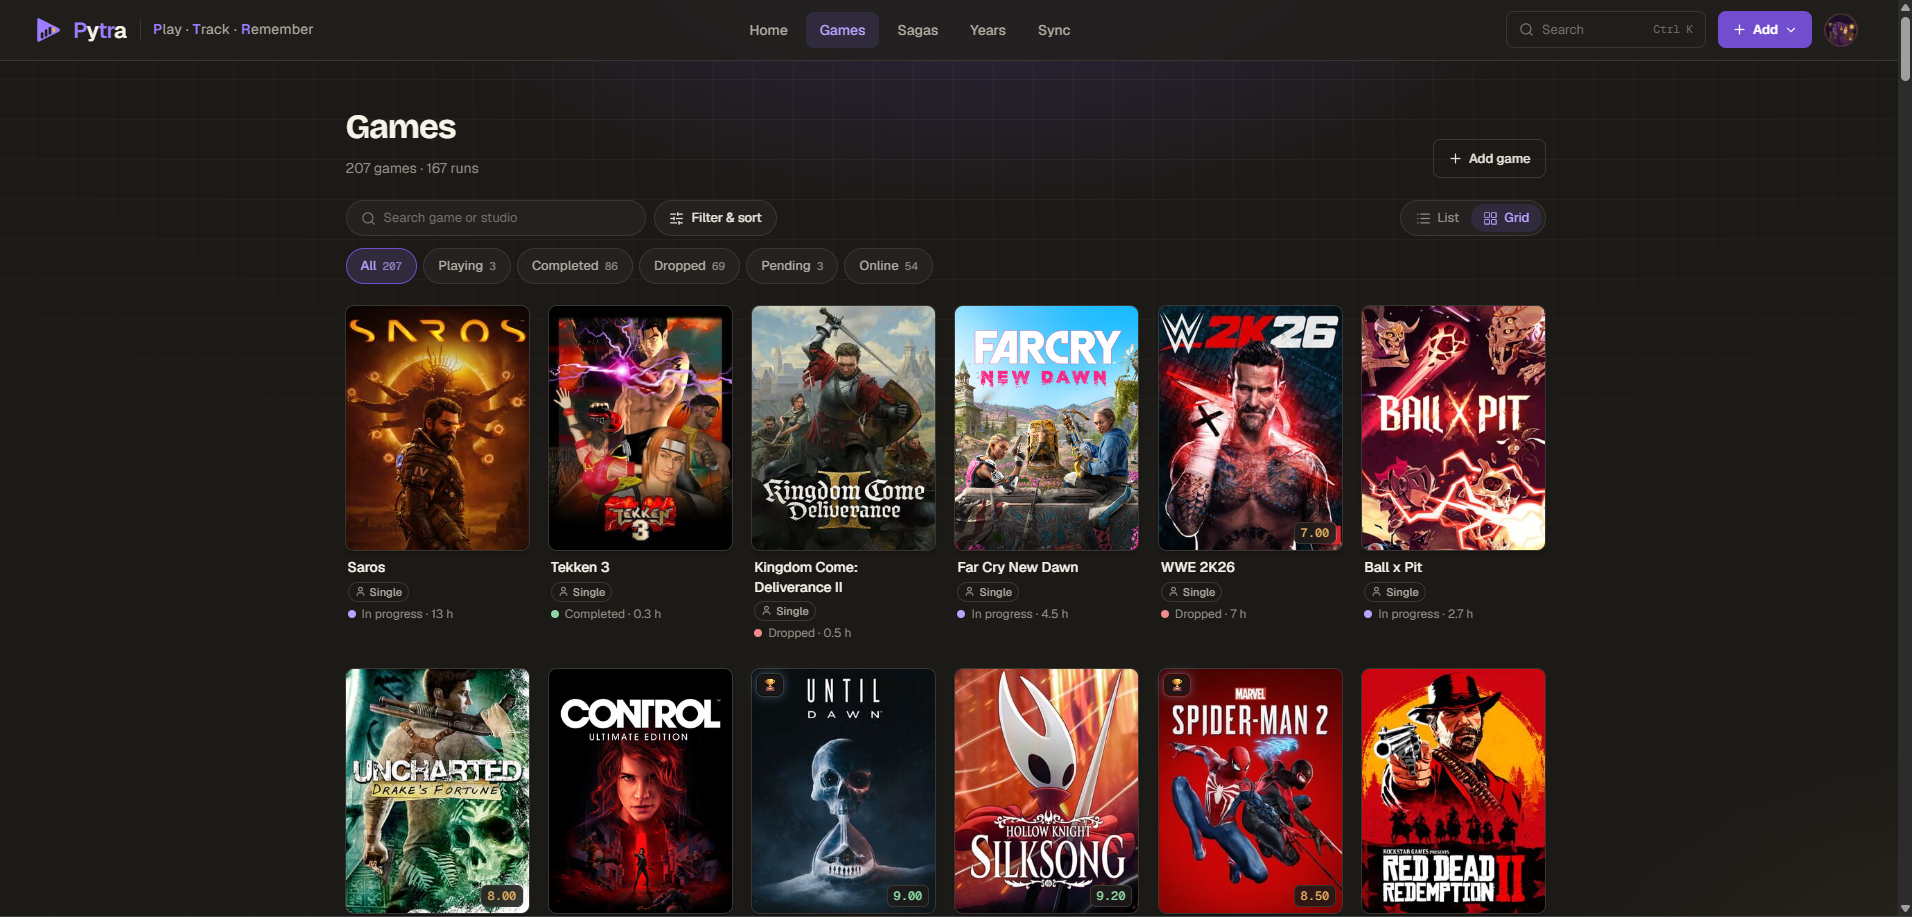
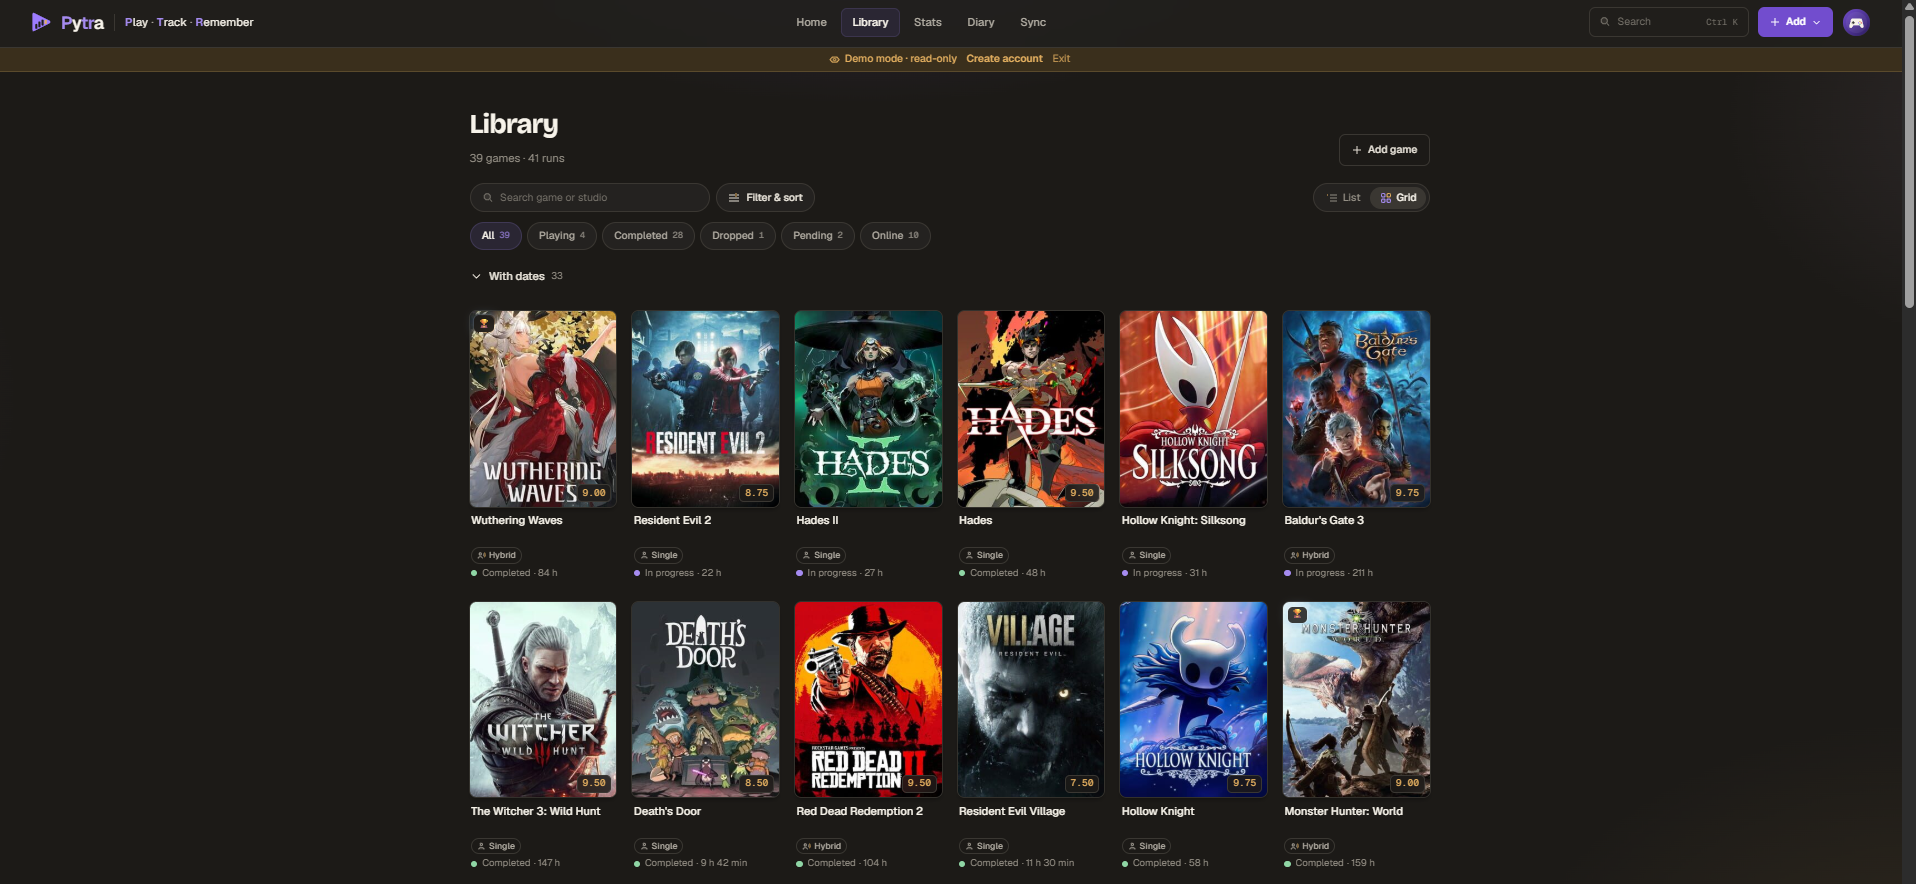
docs(readme): refresh features, Android release flow and screenshots

diff --git a/README.md b/README.md
@@ -12,12 +12,16 @@ Frontend for **Pytra** ("Play, Track, Remember"), a personal video game tracker.
 
 <table>
   <tr>
-    <td width="50%"><img src="docs/screenshots/dashboard.png" alt="Dashboard" width="100%"><br><sub><b>Dashboard</b>: totals, achievements, games in progress and hours per year</sub></td>
-    <td width="50%"><img src="docs/screenshots/library.png" alt="Game library" width="100%"><br><sub><b>Library</b>: cover grid with status filters, search and list/grid views</sub></td>
+    <td width="50%"><img src="docs/screenshots/dashboard.png" alt="Dashboard" width="100%"><br><sub><b>Dashboard</b>: greeting, diary shortcut, totals, achievements, games in progress and hours per year</sub></td>
+    <td width="50%"><img src="docs/screenshots/library.png" alt="Game library" width="100%"><br><sub><b>Library</b>: cover grid with status filters (Playing, Completed, Dropped, Pending, Online), search and list/grid views</sub></td>
   </tr>
   <tr>
-    <td width="50%"><img src="docs/screenshots/game-detail.png" alt="Game detail" width="100%"><br><sub><b>Game detail</b>: metadata, saga, hours, ratings, platinum and runs</sub></td>
-    <td width="50%"><img src="docs/screenshots/years.png" alt="Year in review" width="100%"><br><sub><b>Years</b>: year in review with GOTY, surprises, disappointments and hours per month</sub></td>
+    <td width="50%"><img src="docs/screenshots/stats.png" alt="Stats hub" width="100%"><br><sub><b>Stats</b>: all-time hero and one card per section (games, activity, genres, years, sagas, platforms, studios, eras, habits, ratings)</sub></td>
+    <td width="50%"><img src="docs/screenshots/diary.png" alt="Diary" width="100%"><br><sub><b>Diary</b>: month heatmap calendar of the hours played each day, with the days listed below</sub></td>
+  </tr>
+  <tr>
+    <td width="50%"><img src="docs/screenshots/sync.png" alt="Sync" width="100%"><br><sub><b>Sync</b>: link Steam and PlayStation to import your library and playtime</sub></td>
+    <td width="50%"><img src="docs/screenshots/profile.png" alt="Profile" width="100%"><br><sub><b>Profile</b>: account, achievements, preferences and data</sub></td>
   </tr>
 </table>
 
@@ -36,17 +40,21 @@ npm start          # ng serve on http://localhost:4200
 |---|---|
 | Auth | Register, mandatory email verification (with resend), login with username or email, forgot/reset password, Google login |
 | Demo | Read-only demo session from the login screen; write actions are hidden or blocked |
-| Dashboard | Stats summary, achievements, games in progress, hours per year, top-rated runs, most-played singleplayer and online games |
-| Library | Games with cover, saga, genres, developer/publisher and release date; status filters, search, sorting, list and grid views |
-| Runs | Log, edit and delete runs (experiences) per game: platform, dates, hours, status, rating, platinum. Online playtime for `ONLINE`/`HYBRID` games |
-| Sagas | Group games into sagas and see progress per saga |
-| Years | Year in review: totals, GOTY, surprises, disappointments, hours per month, the year's runs and a free-text note |
-| Achievements | Badges derived from your library and stats (hours, completed runs, sagas, online time...) |
+| Dashboard | Stats summary, achievements, games in progress, hours per year (linked to each year page), top-rated runs, most-played singleplayer and online games |
+| Library ("Biblioteca") | Games with cover, saga, genres, developer/publisher and release date. Collapsible sections (En curso, Completado...), with postgame games under both En curso and Completado; filters by status, platinum, 100%, played year, release decade and run buckets; search, sorting, list and grid views |
+| Backlog | "Pendiente" is a per-game backlog switch, not a run status; starting a run takes the game out of the backlog |
+| Runs | Log, edit and delete runs (experiences) per game: platform, dates, hours, status (En curso, Completado, Abandonado), rating, platinum, 100% and postgame (with its end date). Hours and rating are editable inline on the run page, and several runs can be queued to edit one after another. Play time is shown and entered as hours and minutes |
+| Online playtime | For `ONLINE`/`HYBRID` games: hours per online platform (the total is their sum), rating, platinum and 100% |
+| Diary | Month heatmap calendar and a day editor: the games played each day, their hours (added to the run or the online playtime) and notes. The game page lists its days played. Optional daily reminder notification on Android |
+| Stats | Stats hub with heroes, covers and charts: activity (year heatmap, streaks, weekday hours), platforms, studios (developers and publishers, with a studio page), eras, genres and sagas, habits (time to finish, abandonment), ratings and game rankings. Rows drill down into the library |
+| Sagas | Group games into sagas, search them by saga or game name, and see progress and a release timeline per saga |
+| Years | Year in review: totals, GOTY, surprises, disappointments, hours per month (online diary hours included), the year's runs and a free-text note |
+| Achievements | Badges derived from your library and stats (hours, completed runs, 100% tiers, sagas, online time...); once unlocked they are stored in the API and stay unlocked |
 | Global search | Jump to any game from anywhere (`Ctrl K`) |
 | Sync | Link **Steam** and **PlayStation** (by online ID) and sync the library. Unmatched games land in a pending queue; each one is confirmed with the full game form (or ignored). The API fills pending games from IGDB in the background |
 | IGDB autofill | Search IGDB (or the Steam store) from the game form to prefill name, cover, developer, publisher, release date and genres |
-| Profile | Avatar, username, data export (CSV / Markdown), account deletion |
-| Preferences | Theme (dark / light / system), language (Spanish / English), rating precision (integers, halves or two decimals), default platform, animations (system / full / reduced) |
+| Profile | Avatar, username, data export (CSV / Markdown), personal access tokens for the Obsidian sync, Android app download, account deletion |
+| Preferences | Theme (dark / light / system), language (Spanish / English), rating scale (0–10, 0–100 or 0–5), rating precision (integers, halves or two decimals), default platform, animations (system / full / reduced) |
 
 ## Tech stack
 
@@ -56,7 +64,7 @@ npm start          # ng serve on http://localhost:4200
 | Language | TypeScript 6.0 |
 | Styling | Tailwind CSS 4 (via PostCSS) |
 | i18n | @ngx-translate/core 18, `public/i18n/es.json` and `en.json` (Spanish by default) |
-| Mobile | Capacitor 8.5 (Android): `app`, `browser`, `filesystem`, `share` |
+| Mobile | Capacitor 8.5 (Android): `app`, `browser`, `filesystem`, `share`, `local-notifications`, plus a native APK installer plugin for in-app updates |
 | Tests | Vitest 5 + jsdom (through `ng test`) |
 | Serving | nginx 1.27 (Docker), Node 24 build stage |
 
@@ -75,6 +83,8 @@ src/app/
 │   ├── auth/             # login, register, verify-email, forgot/reset-password, oauth-callback
 │   ├── dashboard/
 │   ├── games/            # library, game detail, game form (with IGDB autofill), run form and detail
+│   ├── diary/            # month calendar and day editor
+│   ├── stats/            # stats hub and its sections (activity, platforms, studios, eras, genres, habits, ratings, games)
 │   ├── sagas/
 │   ├── years/
 │   ├── sync/             # steam/, psn/, shared/ (pending review)
@@ -97,9 +107,9 @@ src/app/
 | `npm run watch` | Development build in watch mode |
 | `npm test` | Unit tests (`ng test`, Vitest on jsdom) |
 
-**Bundle budget:** the initial bundle warns above **420 kB** and fails above 500 kB (`angular.json`). Keep heavy features in lazy routes.
+**Bundle budget:** the initial bundle warns above **430 kB** and fails above 500 kB (`angular.json`). Keep heavy features in lazy routes.
 
-**CI:** `.github/workflows/ci.yml` runs `npm ci`, `npm run build` and `ng test --watch=false` on Node 24 for every push and pull request to `master`.
+**CI:** `.github/workflows/ci.yml` runs `npm ci`, `npm run build` and `ng test --watch=false` on Node 24 for every push and pull request to `master`. `.github/workflows/android-release.yml` builds a signed APK and publishes it as a GitHub release on every `v*` tag.
 
 ## Configuration
 
@@ -155,6 +165,16 @@ adb install -r app/build/outputs/apk/debug/app-debug.apk # 4. install / update o
 
 > The APK **bundles the web build**. After any web change, repeat all four steps; otherwise the app keeps running the old code.
 
+**Signed release builds.** One key signs every published APK, so installs from GitHub update in place. `android/app/build.gradle` reads it from the CI env vars (`ANDROID_KEYSTORE_FILE`, `ANDROID_KEYSTORE_PASSWORD`, `ANDROID_KEY_ALIAS`, `ANDROID_KEY_PASSWORD`), else from `~/.android/pytra-release.properties` (or `-PpytraReleaseProperties=<path>`); without either, release builds are unsigned.
+
+```bash
+scripts/setup-release-signing.sh   # once: creates the keystore, the local properties and the GitHub secrets
+scripts/build-release-apk.sh       # local signed release APK
+git tag v1.2.0 && git push --tags  # CI publishes the signed APK as a GitHub release
+```
+
+**In-app updates.** At launch the app checks the latest GitHub release and offers to download and install the new APK.
+
 **How login works on Android:** Google rejects OAuth in embedded WebViews, so Google login and Steam linking open in a Custom Tab with `client=android`. The API finishes by redirecting to `com.estebanmm13.pytra://oauth-callback?code=...`; the app catches that deep link, closes the tab and routes to `/oauth-callback`, which exchanges the one-time code for a JWT. On the web, the same flows use a normal full-page redirect.
 
 The Android WebView origin is `https://localhost`, which the API allows in CORS by default.
@@ -169,4 +189,4 @@ railway up --service pytra-web --environment production --detach
 
 ## Known limitations
 
-- **Debug APK only:** there is no release signing configuration.
+- **No automatic web deploys:** the web is deployed manually with `railway up`.
